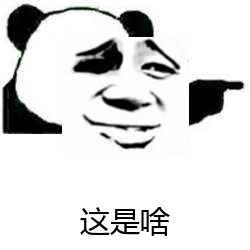
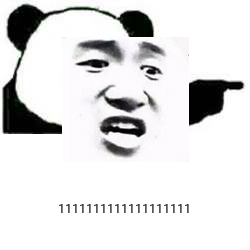
去底色

diff --git a/ml-on-py-examples/examp-2/operators/image.py b/ml-on-py-examples/examp-2/operators/image.py
@@ -29,7 +29,8 @@ def draw_emo(bg, face, txt):
     target.paste(background, (0, 0))
     # 导入表情
     faceImg = Image.open(face)
-    target.paste(faceImg, (62, 37))
+
+    target.paste(bg_trans(faceImg, (255, 255, 255)), (62, 37))
 
     # 加入文本
     # target = draw_text(txt, target)
@@ -63,6 +64,23 @@ def draw_text(text, image):
     draw.text((10, 200), text, fill='black', font=imageFont)
     del draw
     return image
+
+def bg_trans(img, color=(220,220,220)):
+    """背景色设置透明
+    Args:
+        image: 待处理图片
+        color: 待处理颜色,(R,G,B)
+    """
+    # 转换成RGBA模式（支持透明图层）
+    img = img.convert("RGBA")
+    pixdata = img.load()
+    for y in range(img.size[1]):
+        for x in range(img.size[0]):
+            print(pixdata[x,y])
+            if pixdata[x,y][0]>color[0] and pixdata[x,y][1]>color[1] and pixdata[x,y][2]>color[2] and pixdata[x,y][3]>0:
+                pixdata[x, y] = (255, 255, 255, 0)
+
+    return img
 
 def draw_text_v1(text, image, off_set=200):
     """强化版绘制文字v1，让文字在x轴上居中
